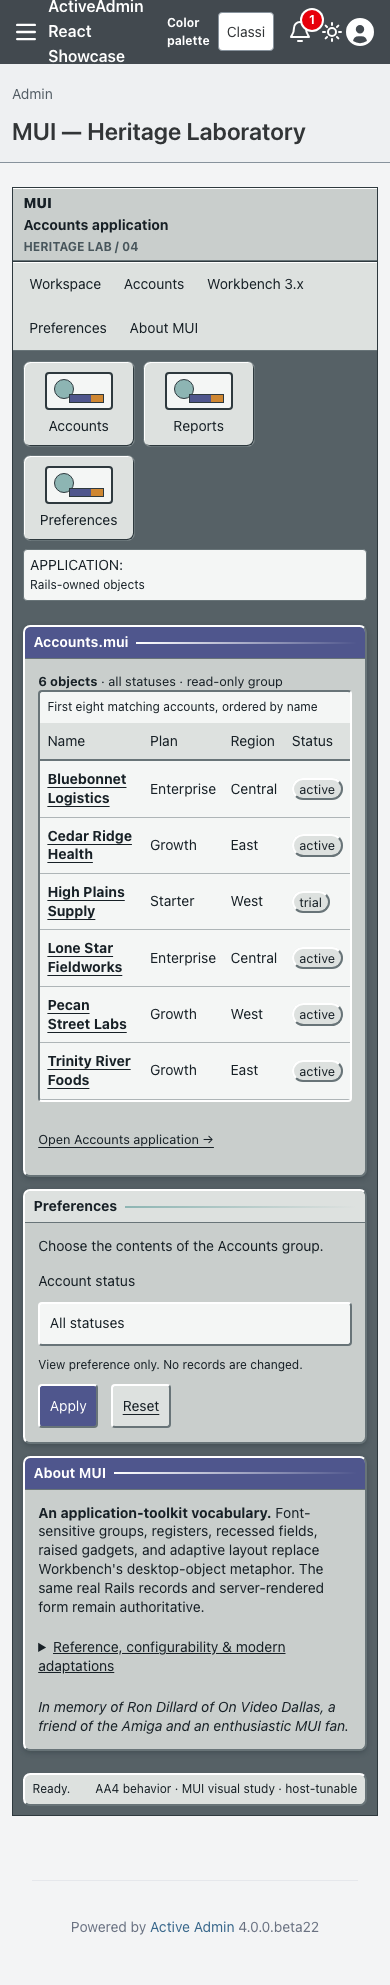
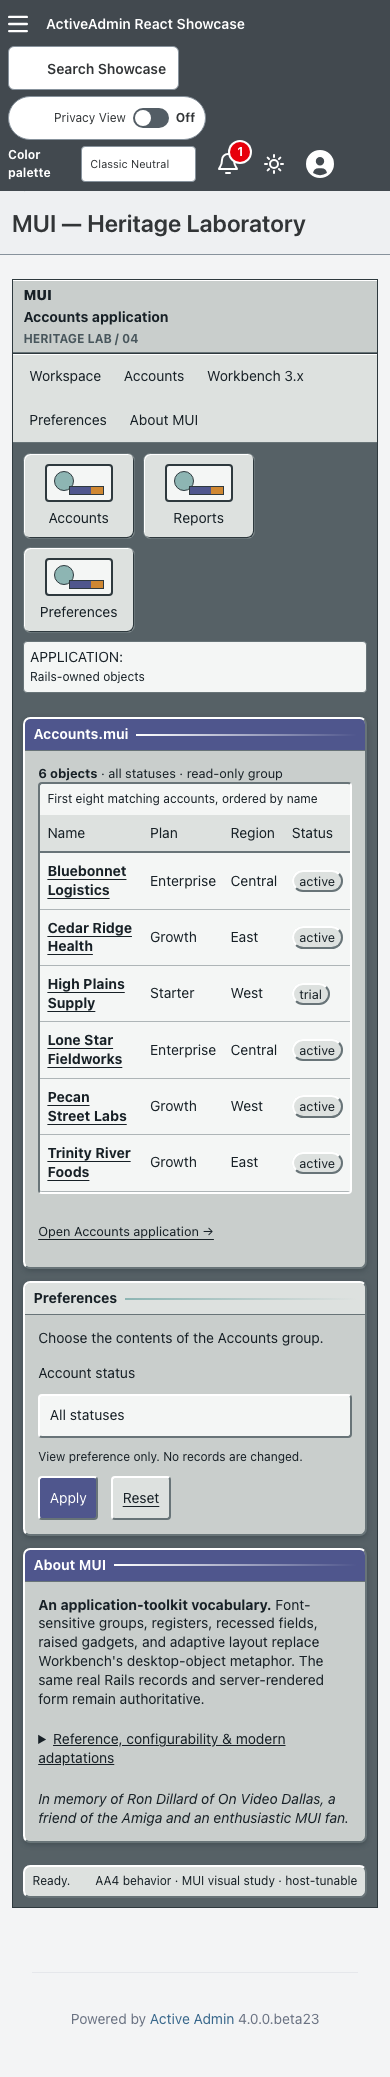
docs: refresh MUI consumer evidence

diff --git a/docs/heritage-mui.md b/docs/heritage-mui.md
@@ -7,8 +7,8 @@ Visit `/admin/mui_laboratory` after signing in, or choose **Overview → MUI
 Laboratory**. It is a separate page rather than a runtime switch on a Workbench
 laboratory.
 
-Presentation comes from stacked `activeadmin-themes` PR #35 at exact head
-`0266827e7eb74842bfad05cc387339945ee61452`. Showcase commits the installed
+Presentation comes from `activeadmin-themes` 0.2.0 at exact merged commit
+`96db6599a0668cfa2338769b35b38262ba9f49d1`. Showcase commits the installed
 stylesheet, maps the gem's immutable 24 semantic slots onto host-owned Rails
 markup, and retains routes, records, authorization, filtering, accessibility,
 and native behavior locally.
@@ -82,17 +82,17 @@ claimed. A 390px viewport is responsive evidence, not genuine browser zoom.
 ## Screenshot Provenance
 
 Captured from implementation source
-`9967a3cb9505961b46c85fbe02d30e71f9881032` on September 21, 2026, using
+`cee7bd9b55f5a34b845e18a697f2c38393566fb1` on September 28, 2026, using
 Playwright 1.63.0 / Chromium 153.0.8010.12 on macOS 26.7. The host pins
-`activeadmin-themes` exact head
-`0266827e7eb74842bfad05cc387339945ee61452`; installed MUI CSS SHA-256 is
+`activeadmin-themes` 0.2.0 at exact merged commit
+`96db6599a0668cfa2338769b35b38262ba9f49d1`; installed MUI CSS SHA-256 is
[1 lines of base64/hex data omitted]
 Seeded synthetic accounts, default zoom, and a fresh page/context were used for
 each 1440×1000 desktop and 390×1000 narrow capture. Both images were visually
 inspected.
 
 ```sh
-CAPTURE_SHOWCASE_SCREENSHOTS=1 CI=1 PLAYWRIGHT_PORT=3186 mise exec -- npx playwright test test/browser/mui_laboratory.spec.ts
+CAPTURE_SHOWCASE_SCREENSHOTS=1 CI=1 PLAYWRIGHT_PORT=3216 VITE_RUBY_SKIP_PROXY=true mise exec -- npx playwright test test/browser/mui_laboratory.spec.ts
 ```
 
 ![Desktop MUI study](screenshots/mui-1440.png)
@@ -102,8 +102,8 @@ CAPTURE_SHOWCASE_SCREENSHOTS=1 CI=1 PLAYWRIGHT_PORT=3186 mise exec -- npx playwr
 SHA256:
 
 ```text
-mui-1440.png  9ae4daddf7475ebed413030ba30ec097a2bf0685fe98525adcf60e2e91c463a2
-mui-390.png   b588fdc5213eeeebf4f3f17b8221ca49ba674ccc2e49d52becec0b77ef321618
+mui-1440.png  df2df26b5738bde36796934878411b6ccc15259ae9c783d280977f063c5a888e
+mui-390.png   107793a1e0b4bd188fc30126671dc8422d05a5d43a808ccaf0c06b0af6a223e9
 ```
 
 ## Collection Remains Open
